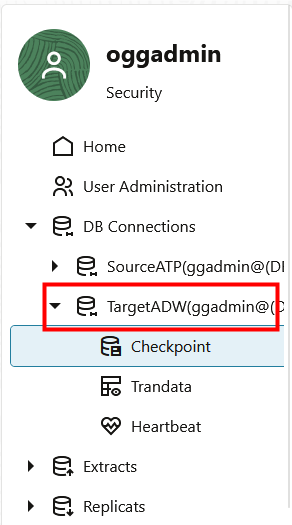
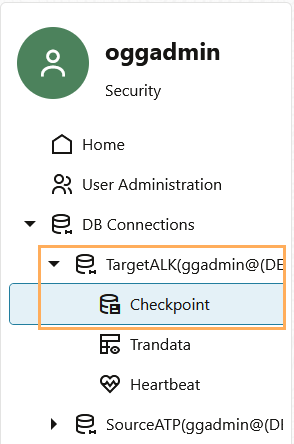
2920 - ALK updates

diff --git a/oci-ggs/create/create.md b/oci-ggs/create/create.md
@@ -73,7 +73,7 @@ You may now **proceed to the next lab.**
 ## Learn more
 
 * [Create a data replication deployment](https://docs.oracle.com/en/cloud/paas/goldengate-service/llyhq/#GUID-899C1348-58CA-43EE-B775-EAD3B365A7A9)
-* [Connect to Oracle Autonomous Database](https://docs.oracle.com/en/cloud/paas/goldengate-service/tqrlh/)
+* [Connect to Oracle Autonomous AI Database](https://docs.oracle.com/en/cloud/paas/goldengate-service/tqrlh/)
 * [Assign a connection to a deployment](https://docs.oracle.com/en/cloud/paas/goldengate-service/llyhq/#GUID-69F7C944-DD31-40FA-8589-4CB5113E74D0)
 
 ## Acknowledgements

diff --git a/oci-ggs/extract/extract-23ai.md b/oci-ggs/extract/extract-23ai.md
@@ -47,7 +47,7 @@ In this lab, you learn to:
 
     ![SRC_OCIGGLL entered in search field and search results returned](https://oracle-livelabs.github.io/goldengate/ggs-common/extract/images/03-05-trandata-23ai.png " ")
 
-6.  In the left navigation menu, click to connect to **TargetADW**.
+6.  In the left navigation menu, click to connect to **TargetALK**.
 
     ![Credentials list with Connect to database TargetALK highlighted](https://oracle-livelabs.github.io/goldengate/ggs-common/extract/images/03-06-connect-targetadw-23ai.png " ")
 
